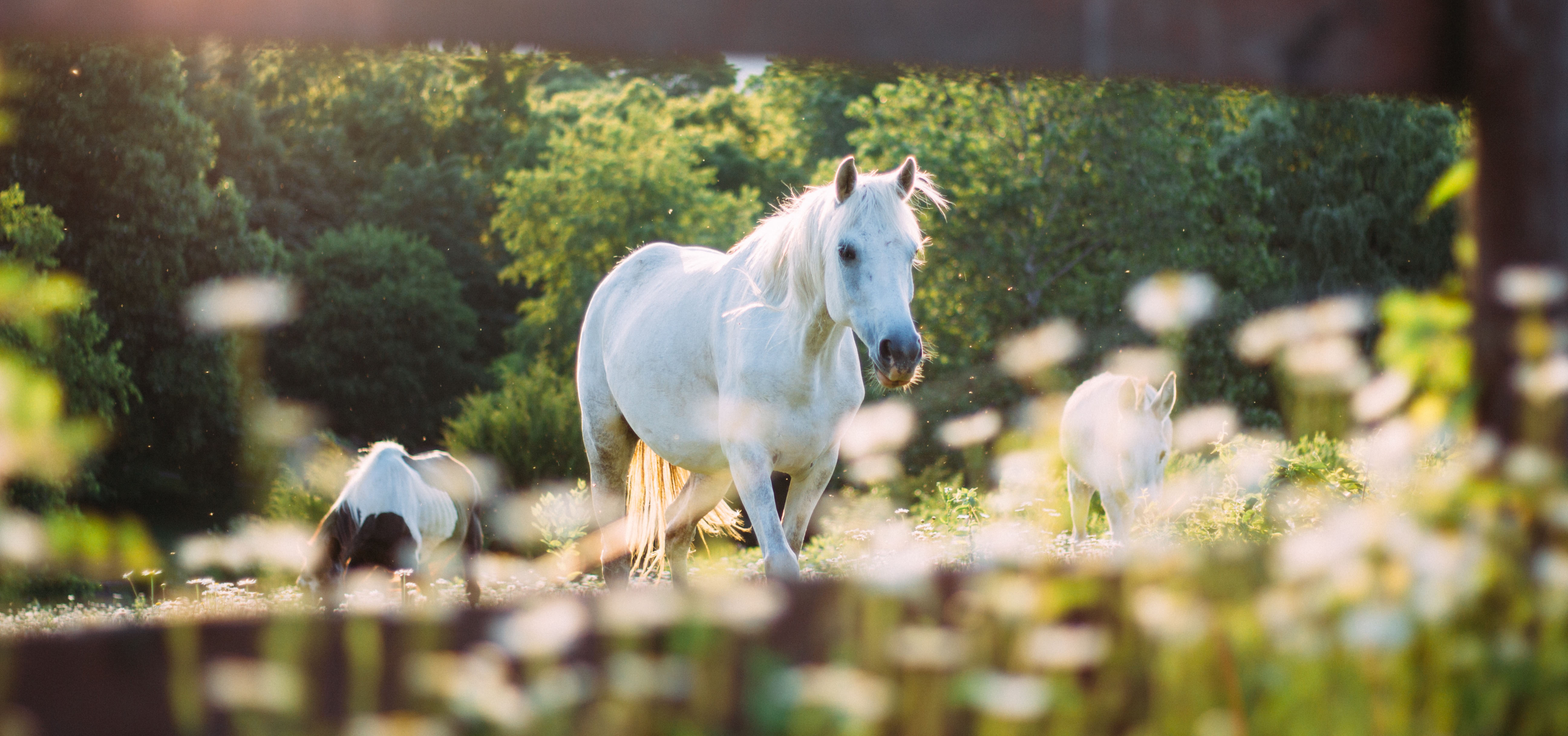
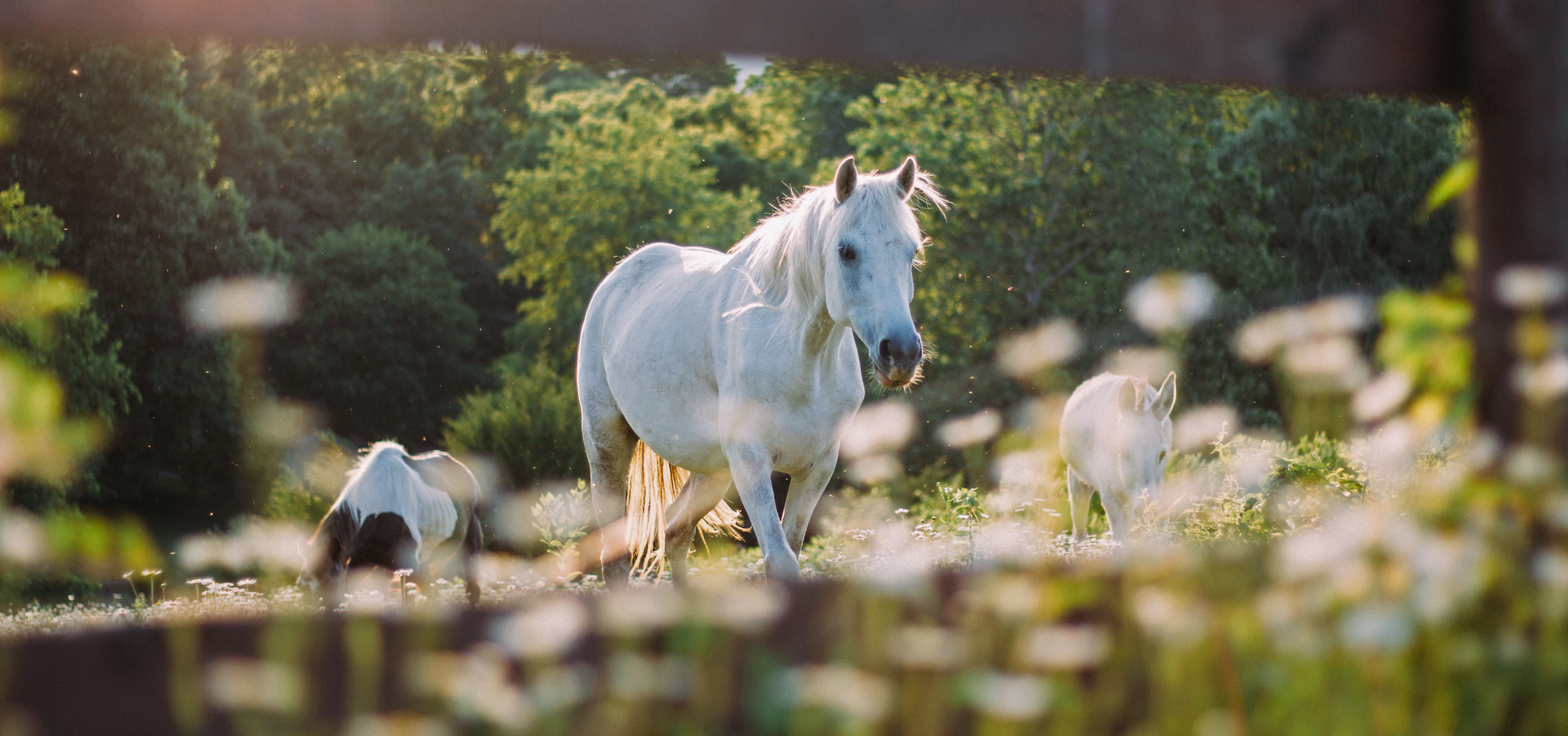
pjo

diff --git a/index.html b/index.html
@@ -32,6 +32,9 @@
 		<!-- Banner -->
 			<section id="banner">
 				<div class="inner">
+					<div class="image">
+						<img src="images/Horse Header.jpg" alt="" data-position="75% center" />
+					</div>
 					<h1>Read on to discover the process of redesigning the website of an equine rescue.</h1>
 					<ul class="actions">
 						<li><a href="#one" class="button alt scrolly big">Continue</a></li>
